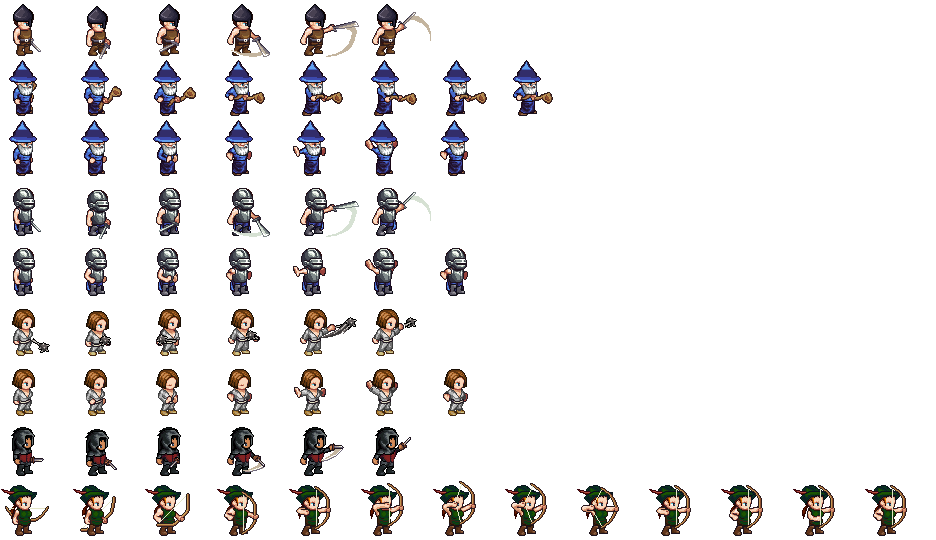
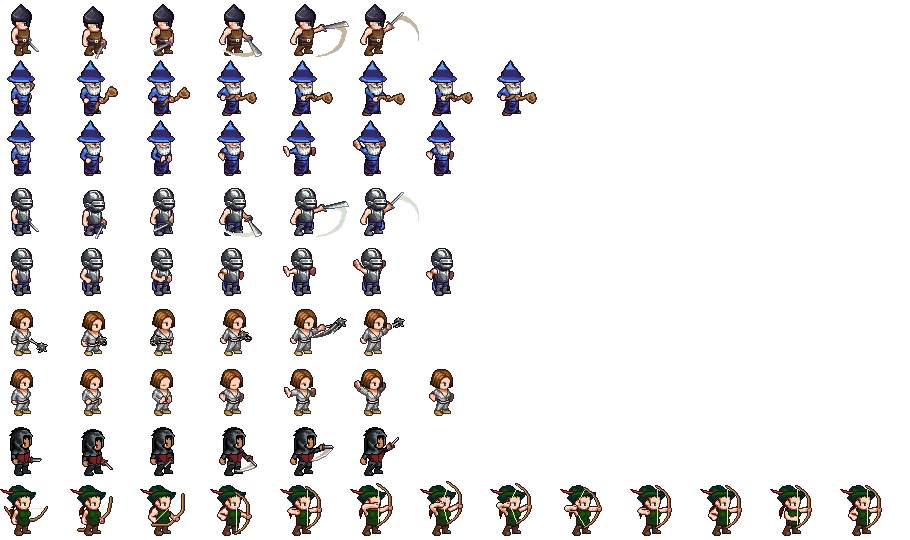
fix(game-quest): align the ranger bow-shoot pose with its walk frames
ULPC draws the shoot body 1px left of the walk sheet, so the head jumped when a shot
started. Nudge shoot frames back; every pose's first frame now matches the standing head.

diff --git a/libs/game/quest/src/lib/art/lpc-sprites.generated.ts b/libs/game/quest/src/lib/art/lpc-sprites.generated.ts
@@ -62,10 +62,10 @@ export const LPC_MONSTERS: ReadonlyMap<string, { sheet: 'characters' | 'monsters
 ]);
 
 /** Real-pixel size of one `actions.png` cell (a battle pose frame, facing right). */
-export const LPC_ACTION_CELL = { width: 72, height: 60 } as const;
+export const LPC_ACTION_CELL = { width: 70, height: 60 } as const;
 
 /** Real-pixel offset of the `characters.png` cell inside an `actions.png` cell (the body lines up). */
-export const LPC_ACTION_ORIGIN = { x: -8, y: -6 } as const;
+export const LPC_ACTION_ORIGIN = { x: -10, y: -6 } as const;
 
 /** `actions.png` row and frame count per `look:action` (action `attack` or `cast`). */
 export const LPC_ACTIONS: ReadonlyMap<string, { row: number; frames: number }> = new Map([

diff --git a/tools/game-assets/build-lpc-sprites.py b/tools/game-assets/build-lpc-sprites.py
@@ -207,6 +207,8 @@ POSES = {
 }
 OVERSIZE = {'slash_128': ('slash', 128), 'slash_oversize': ('slash', 192), 'thrust_oversize': ('thrust', 192)}
 POSE_CANVAS = 192
+# ULPC draws the bow-shoot body 1px left of the walk frames; shift it back so the head does not jump.
+POSE_NUDGE = {'shoot': (1, 0)}
 
 
 # ---------------------------------------------------------------------------------------------------------
@@ -363,11 +365,12 @@ def pose_frames(name: str, anim: str, used: set[str], missing: list[str]) -> lis
         if len(fs) != count:
             missing.append(f'{anim}: {name} layer has {len(fs)} frames, body has {count}')
     frames = []
+    nudge = POSE_NUDGE.get(anim, (0, 0))
     for i in range(count):
         cell = Image.new('RGBA', (POSE_CANVAS, POSE_CANVAS))
         for _, fs in layers:
             if i < len(fs):
-                cell.alpha_composite(fs[i])
+                cell.alpha_composite(fs[i], nudge)
         frames.append(cell)
     return frames
 

diff --git a/docs/JOUSTER-QUEST-GAME-PLAN.md b/docs/JOUSTER-QUEST-GAME-PLAN.md
@@ -1932,9 +1932,11 @@ Party members now swing, thrust, shoot and cast with the ULPC action rows instea
 | Ranger | Bow shot, 13 frames (Aimed Shot and Volley too) | none |
 
 - **Sheet:** `build-lpc-sprites.py` composites each class's east-facing action row from the same layers and
-  recolours as its walk sheet into `actions.png` (one row per class and action, 72×60 cells cropped to the union
+  recolours as its walk sheet into `actions.png` (one row per class and action, 70×60 cells cropped to the union
   of all poses). `LPC_ACTIONS`, `LPC_ACTION_CELL` and `LPC_ACTION_ORIGIN` in the generated TS give each row's
-  frame count and the offset that keeps the body where the standing frame draws it. Layers with no ULPC animation
+  frame count and the offset that keeps the body where the standing frame draws it (ULPC's bow-shoot body sits
+  1 px left of the walk frames, so the script nudges it back; every pose's first frame matches the standing head).
+  Layers with no ULPC animation
   (the gnarled staff, arming sword and mace have no spellcast) are skipped and reported, so those weapons are
   sheathed while casting.
 - **Timing:** a melee pose plays over the 0.6 s lunge, so the weapon connects on the frame the hit lands (0.32 s).
